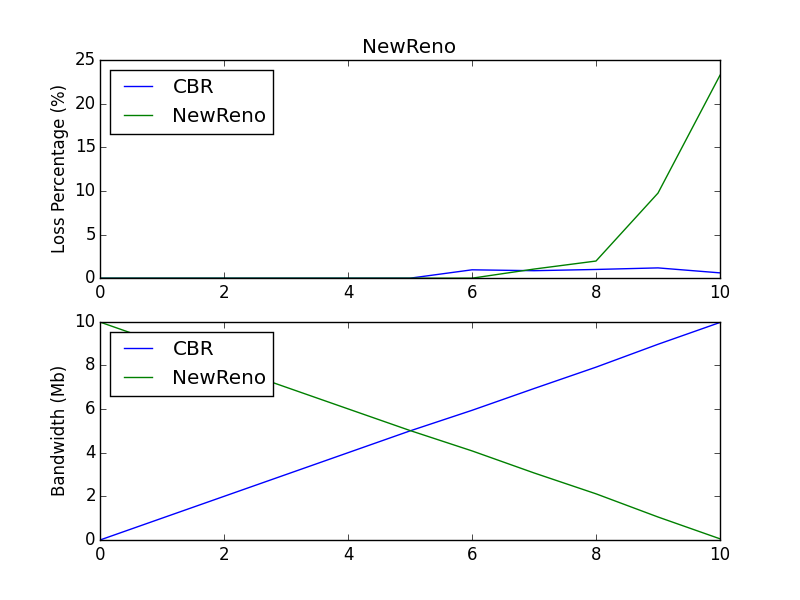
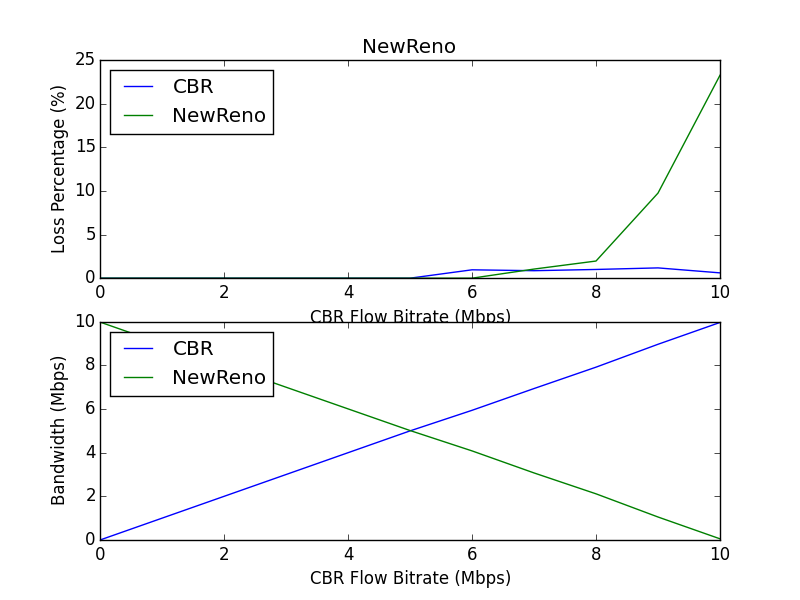
Added xlabels

Changed region(s): [[0.375, 0.93, 0.625, 0.99], [0.375, 0.51, 0.6562, 0.54], [0.0625, 0.6, 0.0938, 0.84]]

diff --git a/part1/parse.py b/part1/parse.py
@@ -92,11 +92,13 @@ def main(args):
   plt.subplot(2,1,1)
   plt.title(proto1 + "/" + proto2)
   plt.ylabel('Loss Percentage (%)')
+  plt.xlabel('CBR Flow Bitrate (Mbps)')
   for i in range(0,numflows):
     plt.plot(cbr,loss[i])
   plt.legend(['CBR', proto1, proto2], loc='upper left')
   plt.subplot(2,1,2)
-  plt.ylabel('Bandwidth (Mb)')
+  plt.ylabel('Bandwidth (Mbps)')
+  plt.xlabel('CBR Flow Bitrate (Mbps)')
   for i in range(0,numflows):
     plt.plot(cbr,bw[i])
   plt.legend(['CBR', proto1, proto2], loc='upper left')

diff --git a/part1/parseb.py b/part1/parseb.py
@@ -91,11 +91,13 @@ def main(args):
   plt.subplot(2,1,1)
   plt.title(proto1)
   plt.ylabel('Loss Percentage (%)')
+  plt.xlabel('CBR Flow Bitrate (Mbps)')
   for i in range(0,numflows):
     plt.plot(cbr,loss[i])
   plt.legend(['CBR', proto1], loc='upper left')
   plt.subplot(2,1,2)
-  plt.ylabel('Bandwidth (Mb)')
+  plt.ylabel('Bandwidth (Mbps)')
+  plt.xlabel('CBR Flow Bitrate (Mbps)')
   for i in range(0,numflows):
     plt.plot(cbr,bw[i])
   plt.legend(['CBR', proto1], loc='upper left')
